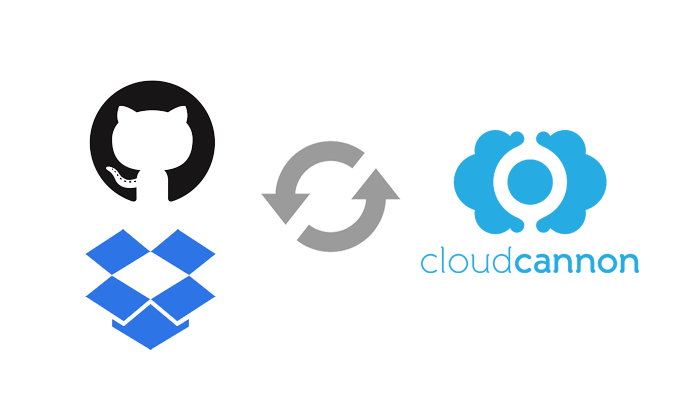
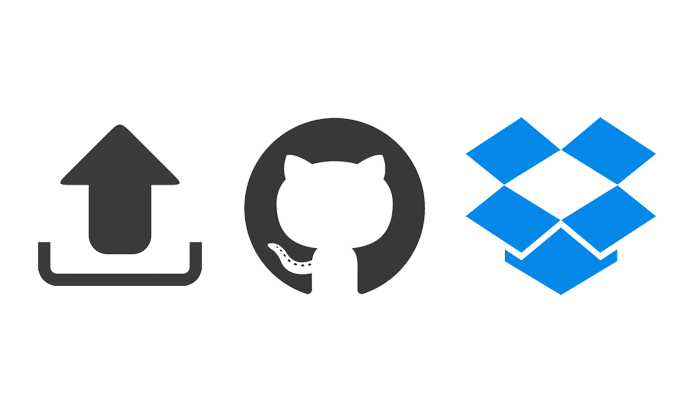
New landing page updates

Changed region(s): [[0.3382, 0.2647, 0.9531, 0.7353], [0.0307, 0.1765, 0.3382, 0.8529]]

diff --git a/index2.html b/index2.html
@@ -63,7 +63,7 @@ title : The world's easiest CMS for designers
     </div>
 
     <div class="image">
-			<img src="/img/home_page/jekyll.png" class="first" width="683" alt="Workflow" style="margin: 50px 0 0 0">
+			<iframe style="width: 550px; height: 344px;" src="//www.youtube.com/embed/jlAtW1AyZA4?rel=0&amp;controls=0&amp;showinfo=0&amp;modestbranding&amp;playlist=jlAtW1AyZA4" frameborder="0" allowfullscreen></iframe>
 		</div>
 	</div>
 </section>
@@ -112,7 +112,7 @@ title : The world's easiest CMS for designers
 			<p class="editable">Your team will love how easy it is to make changes on the website with our visual editor. On Jekyll websites they can also easily add and update blog posts, front matter and collections.</p>
 		</div>
 		<div class="image">
-			<iframe width="550" height="346" src="//www.youtube.com/embed/E3kATuB7Mug?rel=0&amp;controls=0&amp;showinfo=0&amp;autoplay=1&amp;loop=1&amp;modestbranding&amp;playlist=E3kATuB7Mug" frameborder="0" allowfullscreen=""></iframe>
+			<iframe width="550" height="285" src="//www.youtube.com/embed/Tmwx2chYGa8?rel=0&amp;controls=0&amp;showinfo=0&amp;autoplay=1&amp;loop=1&amp;modestbranding&amp;playlist=Tmwx2chYGa8" frameborder="0" allowfullscreen=""></iframe>
 	</div>
 </section>
 
@@ -124,7 +124,7 @@ title : The world's easiest CMS for designers
       </p>
 		</div>
 		<div class="image">
-			<img src="/img/home_page/upload.png" class="first" width="683" alt="Upload" style="margin: 50px 0 0 0">
+			<img src="/img/home_page/sync.png" class="first" width="683" alt="Upload" style="margin: 50px 0 0 0">
 		</div>
 	</div>
 </section>
@@ -164,7 +164,7 @@ title : The world's easiest CMS for designers
     <div class="plan-header">
       <a href="https://app.cloudcannon.com/users/sign_up" class="sign-up">
         <h2>Small Team</h2>
-        <p class="price-per-month"><span>$</span>9<abbr title="Per Month">/mo</abbr></p>
+        <p class="price-per-month"><span>$</span>24<abbr title="Per Month">/mo</abbr></p>
       </a>
     </div>
 
@@ -185,7 +185,7 @@ title : The world's easiest CMS for designers
   <div class="plan-header">
     <a href="https://app.cloudcannon.com/users/sign_up" class="sign-up">
       <h2>Large Team</h2>
-      <p class="price-per-month"><span>$</span>29<abbr title="Per Month">/mo</abbr></p>
+      <p class="price-per-month"><span>$</span>49<abbr title="Per Month">/mo</abbr></p>
     </a>
   </div>
 
